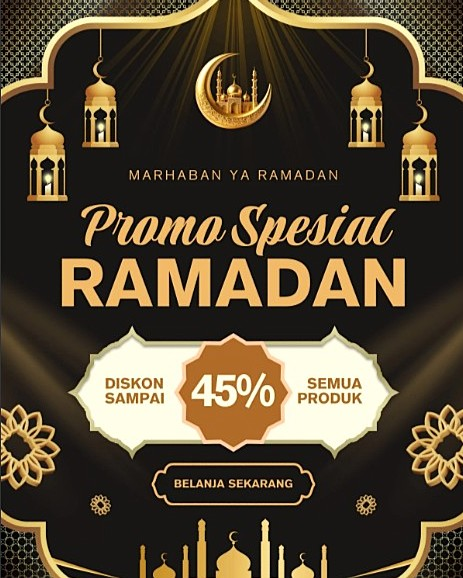
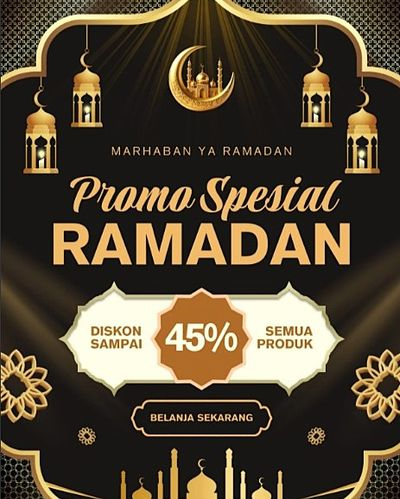
update with optimation images pewer full

diff --git a/index.html b/index.html
@@ -88,7 +88,7 @@
     content="NUXAR PERFUMERY menghadirkan parfum eceran premium yang dirancang untuk menemani setiap momen berhargamu. Aroma mewah, tahan lama, dan terjangkau untuk mahasiswa, pekerja, hingga traveler." />
   <meta property="og:type" content="website" />
   <meta property="og:url" content="https://nuxarperfumery.my.id/" />
-  <meta property="og:image" content="https://nuxarperfumery.my.id/hero-main.png" />
+  <meta property="og:image" content="https://nuxarperfumery.my.id/hero-main.webp" />
   <meta property="og:image:width" content="1200" />
   <meta property="og:image:height" content="630" />
   <meta property="og:locale" content="id_ID" />
@@ -99,7 +99,7 @@
   <meta name="twitter:title" content="NUXAR PERFUMERY | Parfum Eceran Premium untuk Setiap Momen Berhargamu" />
   <meta name="twitter:description"
     content="NUXAR PERFUMERY menghadirkan parfum eceran premium yang dirancang untuk menemani setiap momen berhargamu. Aroma mewah, tahan lama, dan terjangkau untuk mahasiswa, pekerja, hingga traveler." />
-  <meta name="twitter:image" content="https://nuxarperfumery.my.id/hero-main.png" />
+  <meta name="twitter:image" content="https://nuxarperfumery.my.id/hero-main.webp" />
 
   <!-- FONT -->
   <link rel="preconnect" href="https://fonts.googleapis.com">
@@ -114,7 +114,7 @@
   </noscript>
 
   <meta http-equiv="Content-Security-Policy"
-    content="default-src 'self'; script-src 'self' 'unsafe-inline' 'unsafe-eval' https://challenges.cloudflare.com https://www.googletagmanager.com https://analytics.tiktok.com https://www.google-analytics.com https://connect.facebook.net https://www.facebook.com; connect-src 'self' https://xdwacnlfgasjeiktoyeb.supabase.co wss://xdwacnlfgasjeiktoyeb.supabase.co https://generativelanguage.googleapis.com https://www.google-analytics.com https://analytics.tiktok.com https://*.tiktok.com https://*.tiktokw.us https://connect.facebook.net https://www.facebook.com; style-src 'self' 'unsafe-inline' https://fonts.googleapis.com; font-src 'self' https://fonts.gstatic.com; img-src 'self' data: https://*.supabase.co https://nuxarperfumery.my.id https://*.google-analytics.com https://*.analytics.tiktok.com https://www.facebook.com https://connect.facebook.net; frame-src 'self' https://challenges.cloudflare.com https://www.facebook.com;" />
+    content="default-src 'self'; script-src 'self' 'unsafe-inline' 'unsafe-eval' https://challenges.cloudflare.com https://static.cloudflareinsights.com https://www.googletagmanager.com https://analytics.tiktok.com https://www.google-analytics.com https://connect.facebook.net https://www.facebook.com; connect-src 'self' https://xdwacnlfgasjeiktoyeb.supabase.co wss://xdwacnlfgasjeiktoyeb.supabase.co https://generativelanguage.googleapis.com https://www.google-analytics.com https://analytics.tiktok.com https://static.cloudflareinsights.com https://*.tiktok.com https://*.tiktokw.us https://connect.facebook.net https://www.facebook.com; style-src 'self' 'unsafe-inline' https://fonts.googleapis.com; font-src 'self' https://fonts.gstatic.com; img-src 'self' data: https://*.supabase.co https://nuxarperfumery.my.id https://*.google-analytics.com https://*.analytics.tiktok.com https://www.facebook.com https://connect.facebook.net; frame-src 'self' https://challenges.cloudflare.com https://www.facebook.com;" />
 
 
   <!-- STRUCTURED DATA – Store/LocalBusiness -->
@@ -124,7 +124,7 @@
     "@type": "Store",
     "name": "NUXAR PERFUMERY",
     "alternateName": "Nuxar Perfumery",
-    "image": "https://nuxarperfumery.my.id/logo-nuxar.png",
+    "image": "https://nuxarperfumery.my.id/logo-nuxar.webp",
     "url": "https://nuxarperfumery.my.id",
     "telephone": "+6281394882490",
     "description": "Toko parfum eceran premium original terbaik di Indonesia. 69+ aroma pilihan pria dan wanita mulai Rp35.000.",

diff --git a/src/sections/KatalogAroma.tsx b/src/sections/KatalogAroma.tsx
@@ -137,10 +137,10 @@ export function KatalogAroma() {
                 </div>
 
                 <TabsList className="h-12 w-full sm:w-fit grid grid-cols-2 rounded-xl border border-black/10 bg-white p-1 shadow-sm">
-                  <TabsTrigger value="cowok" className="rounded-lg px-6 py-1.5 text-[10px] font-black uppercase tracking-widest transition-all data-[state=active]:bg-highlight data-[state=active]:text-black text-black/70 data-[state=active]:opacity-100">
+                  <TabsTrigger value="cowok" className="rounded-lg px-6 py-1.5 text-[10px] font-black uppercase tracking-widest transition-all data-[state=active]:bg-highlight data-[state=active]:text-black text-black/90 data-[state=active]:opacity-100">
                     Men ({perfumes.cowok.length})
                   </TabsTrigger>
-                  <TabsTrigger value="cewek" className="rounded-lg px-6 py-1.5 text-[10px] font-black uppercase tracking-widest transition-all data-[state=active]:bg-highlight data-[state=active]:text-black text-black/70 data-[state=active]:opacity-100">
+                  <TabsTrigger value="cewek" className="rounded-lg px-6 py-1.5 text-[10px] font-black uppercase tracking-widest transition-all data-[state=active]:bg-highlight data-[state=active]:text-black text-black/90 data-[state=active]:opacity-100">
                     Women ({perfumes.cewek.length})
                   </TabsTrigger>
                 </TabsList>

diff --git a/src/components/Preloader.tsx b/src/components/Preloader.tsx
@@ -13,8 +13,8 @@ export function Preloader({ onComplete }: PreloaderProps) {
 
     useEffect(() => {
         const assets = [
-            '/logo-nuxar.png',
-            '/hero-main.png',
+            '/logo-nuxar.webp',
+            '/hero-main.webp',
             '/6botol.jpg',
             '/5botol.jpg',
             '/product-1.jpg',
@@ -26,7 +26,7 @@ export function Preloader({ onComplete }: PreloaderProps) {
         let loadedCount = 0;
         const totalAssets = assets.length;
         const startTime = performance.now();
-        const minDuration = 2000; // Minimum duration to keep the premium feel
+        const minDuration = 800; // Minimum duration reduced for better performance
 
         const updateProgress = () => {
             const timeElapsed = performance.now() - startTime;

diff --git a/src/config.ts b/src/config.ts
@@ -32,7 +32,7 @@ export interface NavigationConfig {
 
 export const navigationConfig: NavigationConfig = {
   // path ke folder PUBLIC (bukan src)
-  logoImage: "/logo-nuxar.png",
+  logoImage: "/logo-nuxar.webp",
 
   // teks brand
   brandName: "NUXAR",
@@ -65,7 +65,7 @@ export interface HeroConfig {
 export const heroConfig: HeroConfig = {
   title: "NUXAR",
   subtitle: "Parfum Eceran Premium untuk Setiap Momen Berhargamu",
-  backgroundImage: "/hero-main.png",
+  backgroundImage: "/hero-main.webp",
   servicesLabel: "Eceran | Original | Premium",
   copyright: "© 2026 NUXAR PERFUMERY",
 };

diff --git a/src/components/RamadanPopup.tsx b/src/components/RamadanPopup.tsx
@@ -89,7 +89,7 @@ export function RamadanPopup({
                 >
                     {/* Promo image */}
                     <img
-                        src="/promo-ramadhan.jpg"
+                        src="/promo-ramadhan.webp"
                         alt="Promo Ramadhan"
                         fetchPriority="high"
                         style={{
